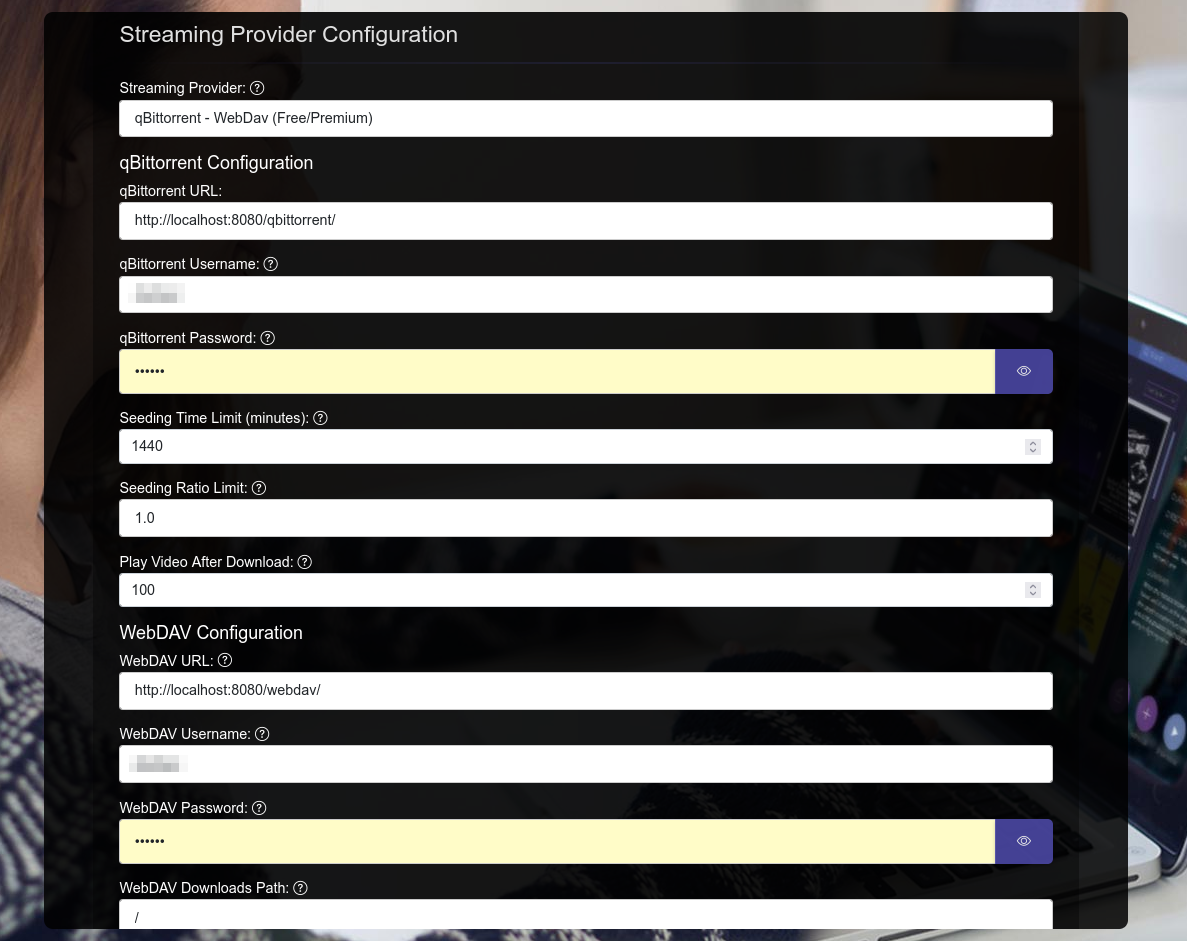
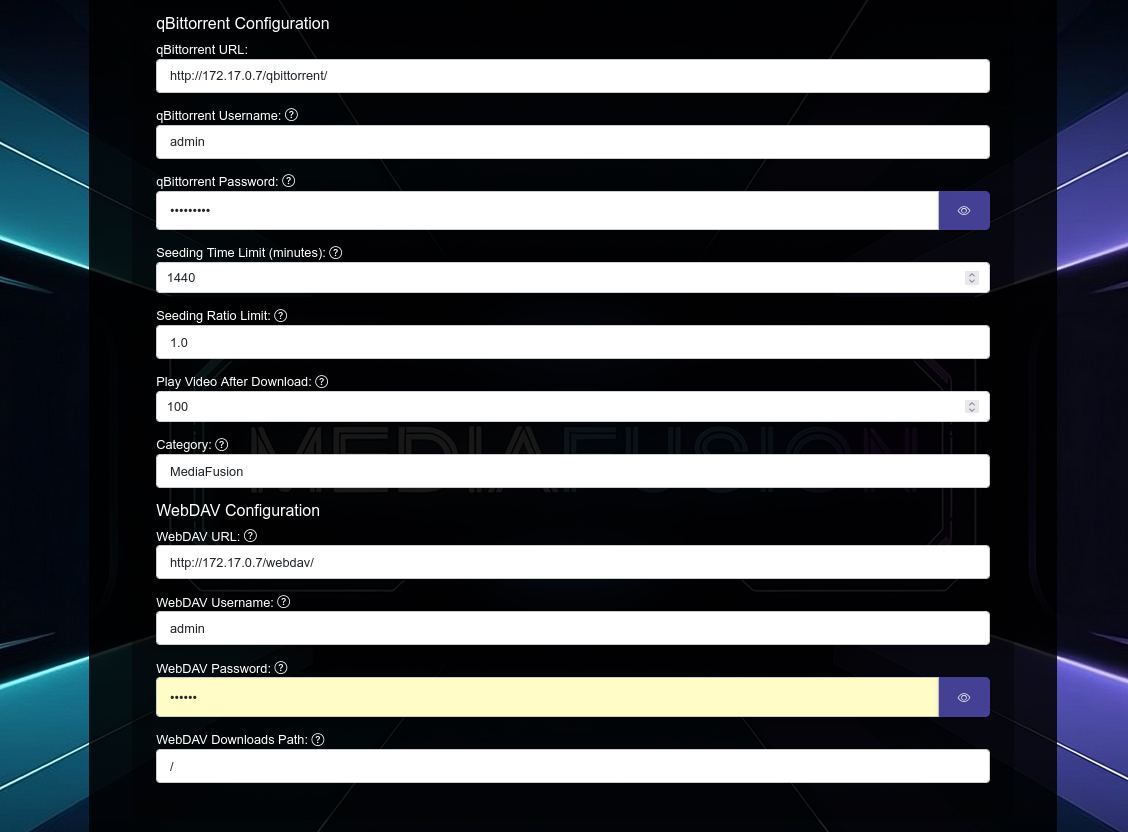
Prepare Release, Update docs with new features & Bug fixes (#303)
* Refactor Kodi addon setup to input code after expire

* Use `parse.urljoin` for URL construction

* Add error handling for cache setup and request response

* Fix WebDAV auth configuration and enhance README setup guide

* Update color values for Kodi Setup visibility

* Refactor kodi request cache

* Update README and home page with new features

diff --git a/resources/html/home.html b/resources/html/home.html
@@ -5,18 +5,18 @@
     <meta http-equiv="content-type" content="text/html; charset=UTF-8">
     <meta charset="utf-8">
     <meta name="viewport" content="width=device-width, initial-scale=1">
-    <title>{{addon_name}} - Stremio Addon</title>
+    <title>{{ addon_name }} - Stremio Addon</title>
     <link href="/static/css/bootstrap.min.css" rel="stylesheet">
     <link href="/static/css/styles.css" rel="stylesheet">
-    <link rel="shortcut icon" href="{{logo_url}}" type="image/x-icon">
+    <link rel="shortcut icon" href="{{ logo_url }}" type="image/x-icon">
 </head>
 
 <body>
 <div class="container">
     <div class="row justify-content-center">
         <div class="col-10 col-lg-10 col-md-8 col-sm-10 config-container">
-            <a href="/"><img class="logo" src="{{logo_url}}"></a>
-            <h3 class="text-center mb-5"><b>{{addon_name}}</b> - {{version}}</h3>
+            <a href="/"><img class="logo" src="{{ logo_url }}"></a>
+            <h3 class="text-center mb-5"><b>{{ addon_name }}</b> - {{ version }}</h3>
 
             <h4 class="mt-4">🔎 Advanced Scraping Capabilities</h4>
             <p>Tap into a world of content with our enhanced scraping features:</p>
@@ -29,6 +29,8 @@
                 <li>📺 TamilUltra & NowMeTV: Get the best of Live TV channels right at your fingertips.</li>
                 <li>🔄 Prowlarr Integration: Supercharge your scraping streams with Prowlarr's powerful integration.</li>
                 <li>🌊 Torrentio/KnightCrawler Streams: Optional scraping streams directly from Torrentio/KnightCrawler streams for even more variety.</li>
+                <li>🔍 Advanced Prowlarr Integration: Improved Prowlarr feed scraping for more comprehensive content discovery with latest updates.</li>
+                <li>📺 MPD DRM Scraping: Scraping MPD & Support streaming functionality with MediaFlow MPD DRM support.</li>
             </ul>
 
             <h4 class="mt-4">🎬 Streaming Provider Integration</h4>
@@ -49,35 +51,22 @@
             <h4 class="mt-4">🛠 Enhanced Additional Features</h4>
             <p>Our addon comes packed with features designed to elevate your streaming experience:</p>
             <ul>
-                <li>🔒 API Security: Fortify your self-hosted API with a password to prevent unauthorized access.
-                </li>
-                <li>🔐 User Data Encryption: Encrypt user data for heightened privacy and security, storing only
-                    encrypted URLs on Stremio.
-                </li>
-                <li>📋 Watchlist Catalog Support: Sync your streaming provider's watchlist directly into the
-                    Stremio catalog for a personalized touch.
-                </li>
-                <li>⚙ Stream Filters: Customize your viewing experience with filters that sort streams by file
-                    size, resolution, seeders and much more.
-                </li>
-                <li>
-                    🖼 Poster with Title: Display the poster with the title for a more visually appealing
-                    catalog on sport events.
-                </li>
-                <li>
-                    📺 M3U Playlist Import: Import M3U playlists for a more personalized streaming experience.
-                </li>
-                <li>
-                    ✨ Manual Scraper Triggering UI: Manage your scraping sources with a manual trigger UI for a
-                    more hands-on approach.
-                </li>
-                <li>
-                    🗑 Delete Watchlist: Delete your watchlist from the stremio for quick control over your
-                    content.
-                </li>
-                <li>
-                    🔍 Prowlarr Indexer Support: Use MediaFusion as an indexer in Prowlarr for searching movies and TV shows with Radarr and Sonarr.
-                </li>
+                <li>🔒 API Security: Fortify your self-hosted API with a password to prevent unauthorized access.</li>
+                <li>🔐 User Data Encryption: Encrypt user data for heightened privacy and security, storing only encrypted URLs on Stremio.</li>
+                <li>📋 Watchlist Catalog Support: Sync your streaming provider's watchlist directly into the Stremio catalog for a personalized touch.</li>
+                <li>⚙ Stream Filters: Customize your viewing experience with filters that sort streams by file size, resolution, seeders and much more.</li>
+                <li>🖼 Poster with Title: Display the poster with the title for a more visually appealing catalog on sport events.</li>
+                <li>📺 M3U Playlist Import: Import M3U playlists for a more personalized streaming experience.</li>
+                <li>✨ Manual Scraper Triggering UI: Manage your scraping sources with a manual trigger UI for a more hands-on approach.</li>
+                <li>🗑 Delete Watchlist: Delete your watchlist from the stremio for quick control over your content.</li>
+                <li>🔍 Prowlarr Indexer Support: Use MediaFusion as an indexer in Prowlarr for searching movies and TV shows with Radarr and Sonarr.</li>
+                <li>🔞 Parental Controls: Filter content based on nudity and certification ratings.</li>
+                <li>🎬 IMDb Integration: Display IMDb ratings with the logo for quick quality assessment.</li>
+                <li>🕰 Sports Event Timing: View the time for sports events directly on the poster for better planning.</li>
+                <li>🌐 MediaFlow Proxy: Support for MediaFlow Proxy for Debrid and Live streams, enhancing accessibility.</li>
+                <li>🎥 RPDB Posters: Support for RPDB posters with fallback to MediaFusion posters.</li>
+                <li>📥 Browser Download Support: Support for downloading video files from debrid services directly in the browser.</li>
+                <li>🚫 Support DMCA Take Down: Torrent blocking feature for DMCA compliance.</li>
             </ul>
 
             <div class="button-container">

diff --git a/resources/html/configure.html b/resources/html/configure.html
@@ -641,7 +641,7 @@
                                         Kodi Addon Setup Guide
                                     </a>
                                 </div>
-                                <input type="text" id="kodiCodeInput" class="form-control" placeholder="Enter 6-digit code" maxlength="6">
+                                <input type="text" id="kodiCodeInput" class="form-control" placeholder="Enter 6-digit code" maxlength="6" value="{{ kodi_code or '' }}">
                             </div>
                             <div class="modal-footer">
                                 <button type="button" class="btn btn-secondary" data-bs-dismiss="modal">Close</button>
@@ -655,10 +655,6 @@
         </div>
     </div>
 </div>
-
-<script>
-    const kodiCode = "{{ kodi_code or '' }}";
-</script>
 
 <!-- JS for Bootstrap and form validation -->
 <script src="/static/js/jquery-3.6.0.min.js"></script>

diff --git a/resources/js/config_script.js b/resources/js/config_script.js
@@ -407,16 +407,9 @@ function setupPasswordToggle(passwordInputId, toggleButtonId, toggleIconId) {
 }
 
 async function initiateKodiSetup() {
-    const urlParams = new URLSearchParams(window.location.search);
-    const kodiCode = urlParams.get('kodi_code');
-
-    if (kodiCode) {
-        await setupKodiAddon(kodiCode);
-    } else {
-        // Show modal to input Kodi code
-        const kodiCodeModal = new bootstrap.Modal(document.getElementById('kodiCodeModal'));
-        kodiCodeModal.show();
-    }
+    // Show modal to input Kodi code
+    const kodiCodeModal = new bootstrap.Modal(document.getElementById('kodiCodeModal'));
+    kodiCodeModal.show();
 }
 
 async function submitKodiCodeAndSetup() {

diff --git a/kodi/plugin.video.mediafusion/lib/router.py b/kodi/plugin.video.mediafusion/lib/router.py
@@ -19,7 +19,7 @@ from .utils import (
 
 
 def list_categories():
-    manifest_data = fetch_data(f"{BASE_URL}/{SECRET_STR}/manifest.json")
+    manifest_data = fetch_data(parse.urljoin(BASE_URL, f"/{SECRET_STR}/manifest.json"))
     if not manifest_data:
         return
 
@@ -106,7 +106,10 @@ def process_videos(videos, action, catalog_type, catalog_id):
 def list_catalog(params):
     log(f"Loading {params['catalog_type']} videos...", xbmc.LOGINFO)
     skip = int(params.get("skip", 0))
-    url = f"{BASE_URL}/{SECRET_STR}/catalog/{params['catalog_type']}/{params['catalog_id']}/skip={skip}.json"
+    url = parse.urljoin(
+        BASE_URL,
+        f"/{SECRET_STR}/catalog/{params['catalog_type']}/{params['catalog_id']}/skip={skip}.json",
+    )
     force_refresh = params.get("force_refresh", False)
     response = fetch_data(url, force_refresh)
     if not response:
@@ -145,7 +148,10 @@ def search_catalog(params):
     if not search_query:
         return
 
-    url = f"{BASE_URL}/{SECRET_STR}/catalog/{params['catalog_type']}/{params['catalog_id']}/search={search_query}.json"
+    url = parse.urljoin(
+        BASE_URL,
+        f"/{SECRET_STR}/catalog/{params['catalog_type']}/{params['catalog_id']}/search={search_query}.json",
+    )
     force_refresh = params.get("force_refresh", False)
     response = fetch_data(url, force_refresh)
     if not response:
@@ -169,7 +175,10 @@ def search_catalog(params):
 
 
 def list_seasons(params):
-    url = f"{BASE_URL}/{SECRET_STR}/meta/{params['catalog_type']}/{params['video_id']}.json"
+    url = parse.urljoin(
+        BASE_URL,
+        f"/{SECRET_STR}/meta/{params['catalog_type']}/{params['video_id']}.json",
+    )
     force_refresh = params.get("force_refresh", False)
     response = fetch_data(url, force_refresh)
     if not response:
@@ -233,7 +242,10 @@ def list_seasons(params):
 
 
 def list_episodes(params):
-    url = f"{BASE_URL}/{SECRET_STR}/meta/{params['catalog_type']}/{params['video_id']}.json"
+    url = parse.urljoin(
+        BASE_URL,
+        f"/{SECRET_STR}/meta/{params['catalog_type']}/{params['video_id']}.json",
+    )
     force_refresh = params.get("force_refresh", False)
     response = fetch_data(url, force_refresh)
     if not response:
@@ -299,7 +311,10 @@ def list_episodes(params):
 
 
 def get_streams(params):
-    url = f"{BASE_URL}/{SECRET_STR}/stream/{params['catalog_type']}/{params['video_id']}.json"
+    url = parse.urljoin(
+        BASE_URL,
+        f"/{SECRET_STR}/stream/{params['catalog_type']}/{params['video_id']}.json",
+    )
     force_refresh = params.get("force_refresh", False)
     response = fetch_data(url, force_refresh)
     if not response:

diff --git a/kodi/plugin.video.mediafusion/lib/utils.py b/kodi/plugin.video.mediafusion/lib/utils.py
@@ -1,3 +1,4 @@
+import sqlite3
 import sys
 from urllib import parse
 
@@ -13,13 +14,6 @@ ADDON = xbmcaddon.Addon()
 ADDON_PATH = sys.argv[0]
 ADDON_ID = ADDON.getAddonInfo("id")
 
-# Initialize requests_cache with CachedSession
-cache_file = xbmcvfs.translatePath(
-    f"special://profile/addon_data/{ADDON_ID}/cache.sqlite"
-)
-session = requests_cache.CachedSession(
-    cache_name=cache_file, backend="sqlite", cache_control=True
-)
 
 BASE_URL = ADDON.getSetting("base_url")
 SECRET_STR = ADDON.getSetting("secret_string")
@@ -37,10 +31,13 @@ if not SECRET_STR:
 
 
 def remove_cache(url):
+    session = get_request_session()
     session.cache.delete_url(url)
 
 
 def fetch_data(url, force_refresh=False):
+    session = get_request_session()
+
     if force_refresh:
         with session.cache_disabled():
             response = session.get(url)
@@ -120,3 +117,35 @@ def is_elementum_installed_and_enabled():
         return True
     except Exception:
         return False
+
+
+def get_request_session():
+    # Initialize requests_cache with CachedSession
+    cache_file = xbmcvfs.translatePath(
+        f"special://profile/addon_data/{ADDON_ID}/cache.sqlite"
+    )
+    try:
+        session = requests_cache.CachedSession(
+            cache_name=cache_file, backend="sqlite", cache_control=True
+        )
+    except sqlite3.OperationalError as e:
+        xbmc.log(f"Failed to setup cache: {e}", xbmc.LOGERROR)
+        try:
+            fallback_cache_file = xbmcvfs.translatePath(
+                f"special://temp/{ADDON_ID}_cache.sqlite"
+            )
+            session = requests_cache.CachedSession(
+                cache_name=fallback_cache_file, backend="sqlite", cache_control=True
+            )
+            xbmc.log(
+                f"Using fallback cache location: {fallback_cache_file}", xbmc.LOGINFO
+            )
+        except sqlite3.OperationalError:
+            xbmc.log("Fallback to in-memory cache", xbmc.LOGWARNING)
+            session = requests_cache.CachedSession(
+                cache_name="mediafusion_request", backend="memory", cache_control=True
+            )
+        xbmcgui.Dialog().notification(
+            "MediaFusion", f"Cache setup issue: {str(e)}", xbmcgui.NOTIFICATION_WARNING
+        )
+    return session

diff --git a/utils/network.py b/utils/network.py
@@ -184,7 +184,7 @@ async def get_mediaflow_proxy_public_ip(
     try:
         async with httpx.AsyncClient() as client:
             response = await client.get(
-                mediaflow_proxy_url + "/proxy/ip",
+                parse.urljoin(mediaflow_proxy_url, "/proxy/ip"),
                 params={"api_password": api_password},
                 timeout=10,
             )

diff --git a/kodi/plugin.video.mediafusion/lib/custom_settings_window.py b/kodi/plugin.video.mediafusion/lib/custom_settings_window.py
@@ -104,6 +104,7 @@ class CustomSettingsWindow(xbmcgui.WindowXMLDialog):
             response = requests.post(
                 urljoin(self.base_url, "kodi/generate_setup_code"), json=data
             )
+            response.raise_for_status()
             data = response.json()
             code = data["code"]
             qr_code_url = data["qr_code_url"]

diff --git a/README.md b/README.md
@@ -26,7 +26,7 @@
 
   ![Media Fusion Streams](resources/images/ss2.png?raw=true)
 
-- **Scraper Support**:
+- **Advanced Scraper Support**:
   - 🏎 **Formula Racing**: Exclusive scraping from TorrentGalaxy for all your racing needs.
   - 🥊 **Fighting Sports**: Catch up on all the latest fighting sports content from UFC and WWE.
   - 🏈🏀⚾⚽🏒🏉🎾 **American Football, Basketball, Baseball, Football, Hockey, Rugby/AFL, and Other Sports**: Now all scraping through sport-video.org.ua for catchup videos.
@@ -35,8 +35,11 @@
   - 🌟 **TamilBlasters**: Dedicated access to an extensive library of regional content.
   - 📺 **TamilUltra & NowMeTV**: Get the best of Live TV channels right at your fingertips.
   - 🔄 **Prowlarr Integration**: Supercharge your scraping streams with Prowlarr's powerful integration.
+  - 🔍 **Advanced Prowlarr Integration**: Improved Prowlarr feed scraping for more comprehensive content discovery with latest updates.
   - 🌊 **Torrentio/KnightCrawler Streams**: Optional scraping streams directly from Torrentio/KnightCrawler streams for even more variety.
-  - 🔍 **Zilean DMM Search**: Search for movies and TV shows with [Zilean DMM](https://github.com/iPromKnight/zilean) for a cached debrid contents.
+  - 🔍 **Zilean DMM Search**: Search for movies and TV shows with [Zilean DMM](https://github.com/iPromKnight/zilean) for cached debrid contents.
+  - 📺 **MPD DRM Scraping**: Scraping MPD & Support streaming functionality with MediaFlow MPD DRM support.
+
 
 - **Additional Features**:
   - 🔒 **API Security**: Fortify your self-hosted API with a password to prevent unauthorized access.
@@ -48,6 +51,13 @@
   - ✨ **Manual Scraper Triggering UI**: Manage your scraping sources with a manual trigger UI for a more hands-on approach.
   - 🗑 **Delete Watchlist**: Delete your watchlist from the stremio for quick control over your content.
   - 🔍 **Prowlarr Indexer Support**: Use [MediaFusion as an indexer in Prowlarr](/resources/yaml/mediafusion.yaml) for searching movies and TV shows with Radarr and Sonarr.
+  - 🔞 **Parental Controls**: Filter content based on nudity and certification ratings.
+  - 🎬 **IMDb Integration**: Display IMDb ratings with the logo for quick quality assessment.
+  - 🕰 **Sports Event Timing**: View the time for sports events directly on the poster for better planning.
+  - 🌐 **MediaFlow Proxy**: Support for MediaFlow Proxy for Debrid and Live streams, enhancing accessibility.
+  - 🎥 **RPDB Posters**: RPDB posters support with fallback to MediaFusion posters.
+  - 📥 **Browser Download Support**: Support for downloading video files from debrid services directly in the browser.
+  - 🚫 **Support DMCA Take Down**: Torrent blocking feature for DMCA compliance.
 
 ## 🚀 Installation Guide
 

diff --git a/deployment/qbittorrent-webdav/README.md b/deployment/qbittorrent-webdav/README.md
@@ -57,10 +57,16 @@ Configure MediaFusion:
 
 1. Open MediaFusion config page.
 2. Select "qBittorrent - WebDav" as the streaming provider.
-3. Fill in WebUI and WebDAV URLs (use local addresses for a local setup).
-4. Enter WebDAV credentials if set; leave blank if not.
-5. Adjust seeding settings and 'Play Video After Download' percentage.
-6. Save and start streaming through Stremio.
+3. Get the Docker IP address using following command:
+   ```bash
+   docker inspect -f '{{range .NetworkSettings.Networks}}{{.IPAddress}}{{end}}' <container_name>
+   ```
+4. Fill in WebUI and WebDAV URLs:
+   - If running MediaFusion locally (not in Docker): Use `http://localhost:8080`
+   - If running MediaFusion in Docker: Use `http://<docker_ip>:8080`, where `<docker_ip>` is the IP obtained in step 3.
+5. Enter WebDAV credentials if set; leave blank if not.
+6. Adjust seeding settings and 'Play Video After Download' percentage.
+7. Save and start streaming through Stremio.
 
 Refer to the screenshot below for a visual guide:
 ![MediaFusion qBittorrent-WebDAV Configuration](/deployment/qbittorrent-webdav/ss.png)
